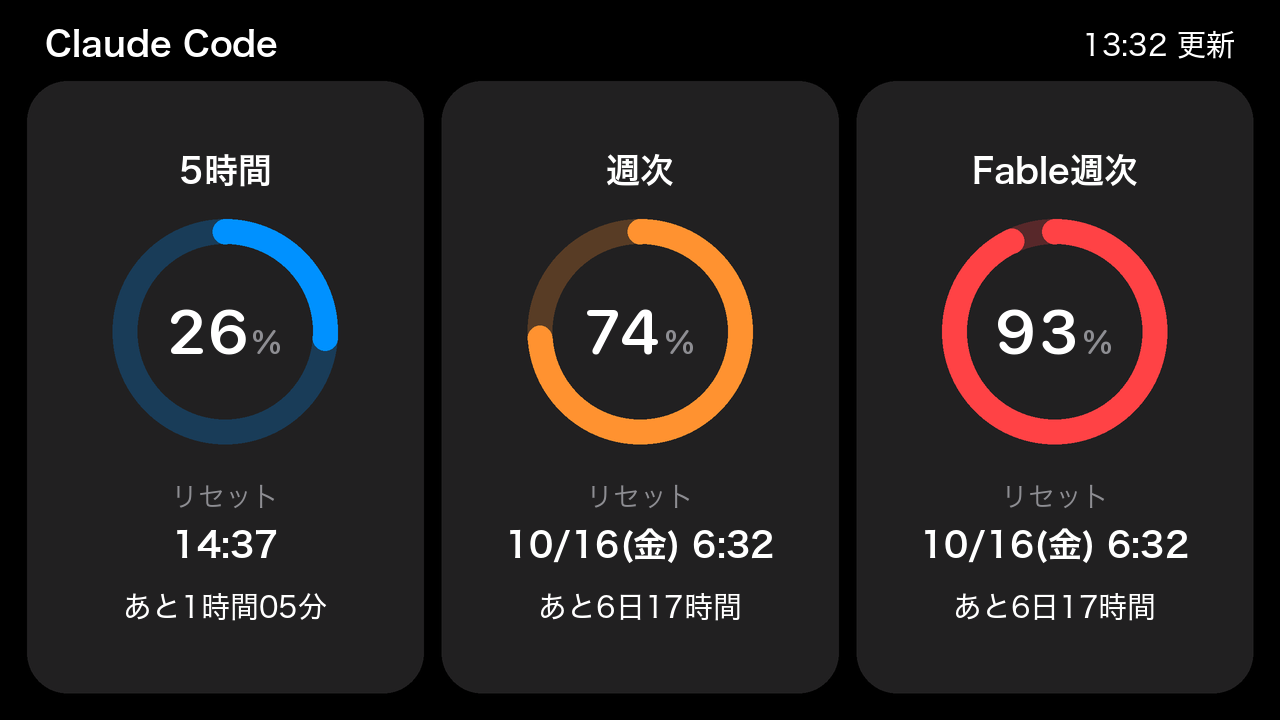
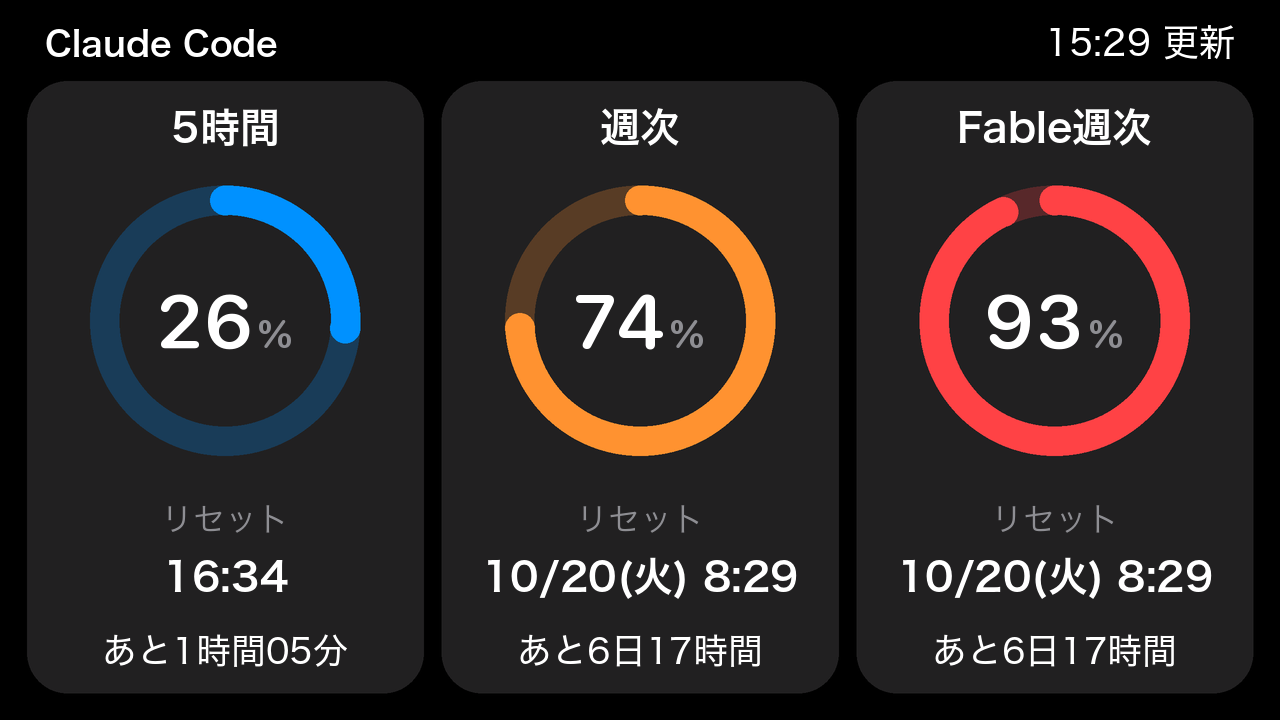
fix: 5.2 インチのカードの中身を 1.2 倍にし、見出しの時刻を 3 枚の画面でも 3.5 インチと同じ比にする
- 余白が大きかったので、1280×720 のときだけカードの中身（リング・数字・文字）を 1.2 倍にする
  （1.3 倍は上下の余白が 3 ピクセルで、文字がカードの縁に付いた）。gauge.LARGE・layout_for
- 見出しの時刻 36 ピクセルを 2 段の画面だけに入れていたので、3 枚の画面にも入れる
- 3.5 インチの大きさ（480×320）の画面は 1 ピクセルも変わらない

diff --git a/tests/test_gauge.py b/tests/test_gauge.py
@@ -96,7 +96,7 @@ class LargeGaugeTest(unittest.TestCase):
     """5.2 インチ（1280×720）。寸法と文字を 2.25 倍にし、増えた横幅をカードに回す。"""
 
     SIZE = (1280, 720)
-    LAYOUT = gauge.Layout(*SIZE)
+    LAYOUT = gauge.layout_for(SIZE)
 
     def test_size_and_scale(self):
         self.assertEqual(gauge.render(snapshot(26, 74, 93), NOW, size=self.SIZE).size, self.SIZE)
@@ -109,13 +109,22 @@ class LargeGaugeTest(unittest.TestCase):
     def test_ring_color_follows_severity(self):
         image = gauge.render(snapshot(26, 74, 93), NOW, size=self.SIZE)
         _label, ring_y, *_rest, content_height = gauge.content_rows(self.LAYOUT)
-        radius, width = self.LAYOUT.px(gauge.RING_RADIUS), self.LAYOUT.px(gauge.RING_WIDTH)
+        radius, width = self.LAYOUT.cpx(gauge.RING_RADIUS), self.LAYOUT.cpx(gauge.RING_WIDTH)
         for index, expected in enumerate((gauge.BLUE, gauge.ORANGE, gauge.RED)):
             left, top, right, bottom = gauge.card_box(index, self.LAYOUT)
             x, y = (left + right) / 2 + radius - width / 2, top + (bottom - top - content_height) / 2 + ring_y
             pixel = image.getpixel((math.floor(x), math.floor(y)))
             with self.subTest(index=index):
                 self.assertTrue(all(abs(a - b) <= 12 for a, b in zip(pixel, expected)), pixel)
+
+    def test_content_is_enlarged_and_still_fits(self):
+        # 5.2 インチは余白が大きかったので、カードの中身を大きくした（2026-10-13）。3.5 インチは変えない
+        self.assertEqual((gauge.layout_for((480, 320)).content, gauge.layout_for((480, 320)).stamp), (1.0, gauge.FOOTNOTE))
+        self.assertGreater(self.LAYOUT.content, 1.0)
+        *_rows, content_height = gauge.content_rows(self.LAYOUT)
+        _left, top, _right, bottom = gauge.card_box(0, self.LAYOUT)
+        self.assertGreaterEqual((bottom - top - content_height) / 2, 20)  # 上下に余白が残る
+        self.assertLess(2 * self.LAYOUT.cpx(gauge.RING_RADIUS), self.LAYOUT.card_width - 2 * self.LAYOUT.px(gauge.CARD_PADDING))
 
     def test_card_content_is_vertically_centered(self):
         image = gauge.render(snapshot(26, 74, 93), NOW, size=self.SIZE)
@@ -133,7 +142,7 @@ class LargeGaugeTest(unittest.TestCase):
         inked = {x for x in range(width) for y in range(0, round(px(gauge.CARD_TOP)) - 4)
                  if image.getpixel((x, y)) != gauge.BACKGROUND}
         self.assertFalse({x for x in inked if x > width - px(gauge.HEADER_INSET) + 2}, "右の余白にはみ出している")
-        small = gauge.font(self.LAYOUT.pt(gauge.FOOTNOTE), gauge.SMALL_WEIGHT)
+        small = gauge.font(self.LAYOUT.pt(self.LAYOUT.stamp), gauge.SMALL_WEIGHT)
         time_left = width - px(gauge.HEADER_INSET) - small.getlength("15:24 時点")
         gap = range(round(time_left - px(gauge.STATUS_GAP)) + 3, round(time_left) - 3)
         self.assertFalse(inked & set(gap), "理由と時刻が重なっている")

diff --git a/docs/handover.md b/docs/handover.md
@@ -248,6 +248,8 @@ scripts/uninstall-launch-agent.sh                                 # 自動起動
   - **下の段の名前**（2026-10-13、ユーザーが選んだ）: 見出しを「Gemini」から出どころの「Antigravity」に変え、カードを「Gemini 5時間」「Gemini 週次」にした。値は Antigravity の Gemini のモデルのグループの枠で、Gemini アプリや Gemini CLI の枠ではない（Gemini CLI の上限は公式の `quota-and-pricing.md` に 1 日の回数で書かれている）。「Gemini」だけでは、その区別が付かないため
   - **見出しと明るさを 3.5 インチに合わせた**（2026-10-13、ユーザーの指示「Claude Code・Antigravity の表記と更新時刻は、3.5 インチの表記と文字・明るさを合わせて」）。3.5 インチのサーバー監視の画面（縦置き）は名前 15・時刻 16 ピクセルで、どちらも白。5.2 インチの見出しの時刻を、同じ比になるよう 29→36 ピクセルにした（`gauge.GEMINI_STAMP`。名前は 34 ピクセルのまま。`render_with_gemini` だけで、Gemini を出さない画面は変えていない）。文字の色はもともと同じ白なので、「明るさ」は画面の明るさとして、5.2 インチの自動起動も 3.5 インチと同じ `--brightness 25` にした。**パネルが違うので、同じ 25% で同じ明るさに見えるかは、5.2 インチが届いてから実機で見比べる**（5.2 インチの明るさの命令は 0〜102 の値、3.5 インチは 255 − 明るさ × 255 ÷ 100）。このときの登録は `scripts/install-launch-agent.sh --device 5.2 --gemini --brightness 25`（同日 15:25 に `--gemini` を外した。次の項目）
   - **5.2 インチに Antigravity の枠を出すのはやめた**（2026-10-13 15:25、ユーザーが決定。自動起動の登録から `--gemini` を外し、`scripts/install-launch-agent.sh --device 5.2 --brightness 25` にした。機能とテストは、横棒の画面と同じく戻せるように残す）。理由: Antigravity は rikkama-column の画像生成にしか使っておらず、これまでにかかった上限は画像生成の上限だけ。**`/usage` に画像生成の枠は無い**（グループは「Gemini Models」「Claude and GPT models」の 2 つで、枠は 5 時間と週の 4 つだけ）。rikkama-column の `.agents/AGENTS.md` によると、画像生成の上限は週次で、毎週水曜 16:26:17 JST に補充され、目安は 45〜60 回、超えると 429。2026-10-11 1:54 に `/usage` を読んだとき Gemini の週の枠は 6% だったが、同じ時刻に rikkama-column のセッションは「今週は 41 回、1:53 の実行で 46 回前後になり週の上限の下限に届く」と記録していた。画像生成が上限に近くても `/usage` の Gemini の枠はほとんど動かないので、画面に出しても役に立たない。加えて、15 分ごとの `agy` の起動（約 6 秒）と `implicit/` のファイルの増加が無くなる
+  - **5.2 インチの 3 枚の画面のカードの中身を大きくした**（2026-10-13、ユーザーの指示「3.5 インチはサークルなどの表示を大きくした。5 インチでも余白が大きいので同じように表示する情報を大きく」）。`gauge.LARGE`（`layout_for`）で、1280×720 のときだけカードの中身（リング・数字・文字・行の間）を 1.2 倍にした。リングの直径は 225→270 ピクセル。1.3 倍も試したが、中身の高さ 606 に対してカードの高さが 612 で、上下の余白が 3 ピクセルしか残らず、文字がカードの縁に付いた。1.2 倍では上下に 27 ピクセルずつ残る。3.5 インチの大きさ（480×320）の画面は 1 ピクセルも変わっていない（変更前と描き比べた）。見本は `docs/images/gauge-1280x720.png`
+  - **見出しの時刻の大きさを 3 枚の画面にも入れた**（2026-10-13）。3.5 インチに合わせた時刻の大きさ（16 pt 相当、36 ピクセル）を 2 段の画面だけに入れていたため、Antigravity の表示をやめたときに 29 ピクセルに戻っていた。`gauge.LARGE` の `stamp` に移し、1280×720 では 3 枚の画面も 2 段の画面も 36 ピクセルにした
   - **使っていない枠のリセット時刻は出さない**（2026-10-13）。15:19 に `/usage` を読むと、使用 0% の枠の `reset_time` は「取得した時刻＋枠の長さ」だった（5 時間の枠は 20:19、Claude・GPT の週の枠はちょうど 7 日後）。取得のたびに先へずれるので、`remaining_fraction` が 1 の枠はリセット時刻を無し（画面は「--」）にした
   - 内部 API を自分で呼ばず、`agy` の `/usage` を読む。版が 1.1.11 より古ければ呼ばない。応答に `num_turns` が 1 以上か `conversation_id` があれば、起動し直すまで取得をやめる（Orca と同じ止め方）
   - 1 回の実行で `agy` は言語サーバーを起動し、内部 API（`loadCodeAssist`・`fetchAvailableModels`・`retrieveUserQuotaSummary` など）を呼ぶ。約 6 秒かかる（2 回測って 6 秒前後）。キーチェーンの自分のトークンで認証する（このプログラムはトークンを読まない）
